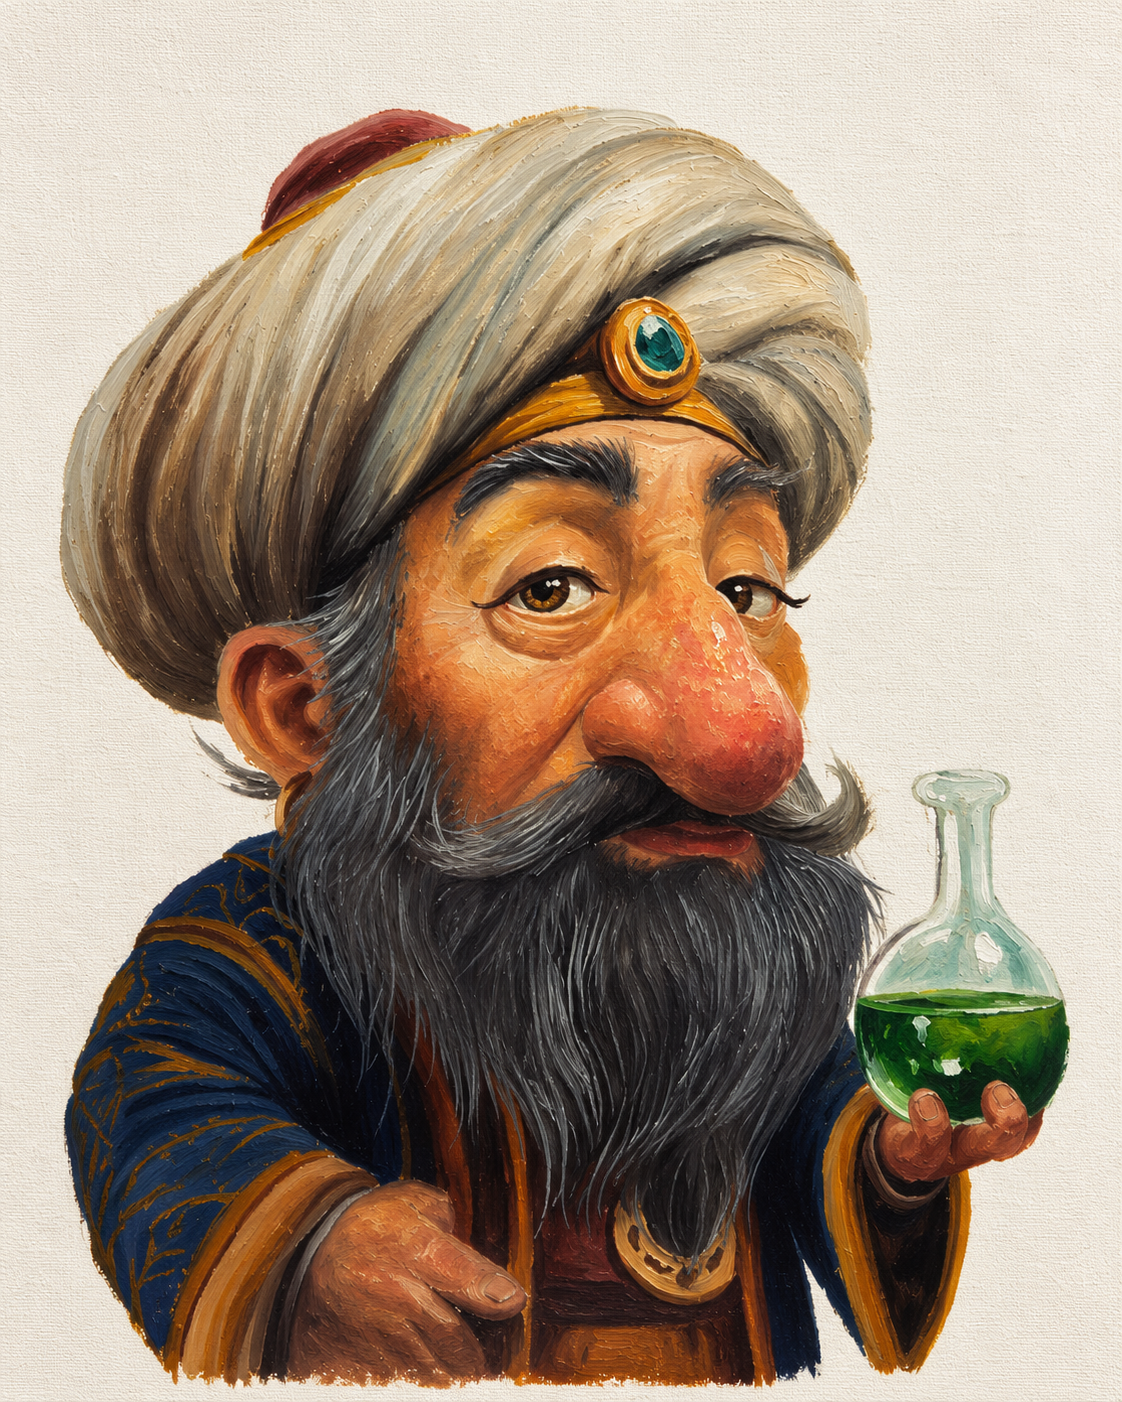
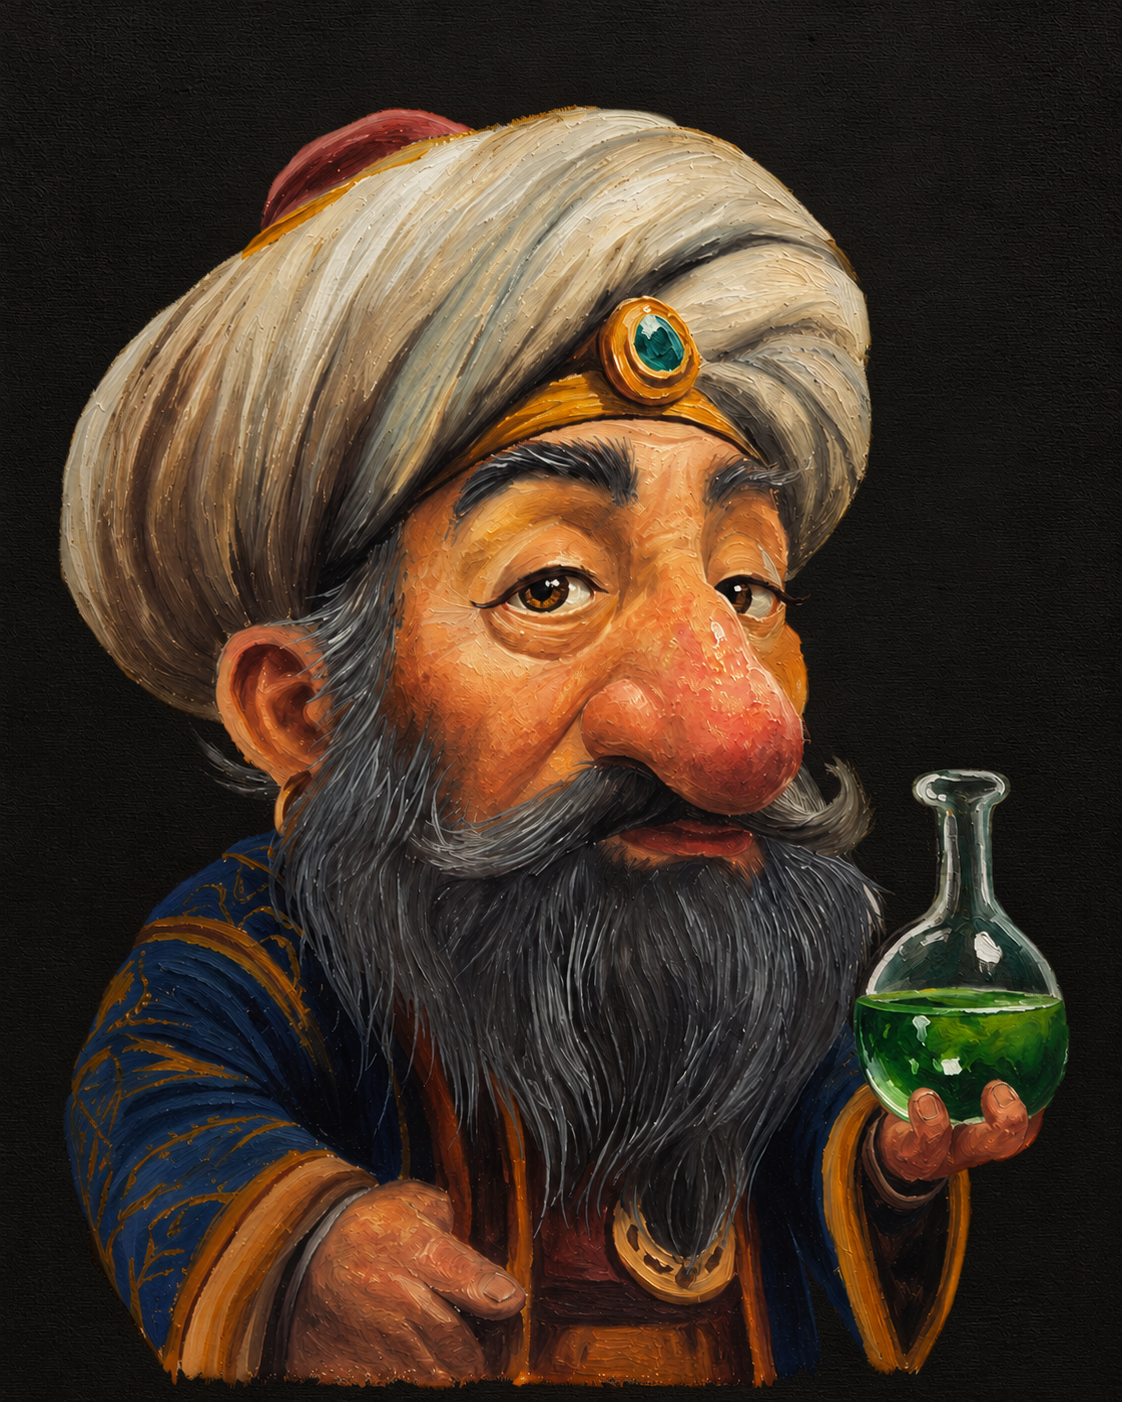
Correct artwork backgrounds and add transparent category art

diff --git a/scripts/prepare-image-assets.php b/scripts/prepare-image-assets.php
@@ -24,7 +24,20 @@ foreach (array_merge(glob($root.'sculptures/*.png'), glob($root.'compositions/*.
     imagepalettetotruecolor($source);
     imagealphablending($source, false);
     imagesavealpha($source, true);
-    imagewebp($source, substr($path, 0, -4).'.webp', 88);
+    if (str_starts_with(basename($path), 'category-')) {
+        // Small navigation illustrations need alpha and enough detail for 2x screens.
+        $width = min(320, imagesx($source));
+        $height = (int) round(imagesy($source) * $width / imagesx($source));
+        $target = imagecreatetruecolor($width, $height);
+        imagealphablending($target, false);
+        imagesavealpha($target, true);
+        imagefill($target, 0, 0, imagecolorallocatealpha($target, 0, 0, 0, 127));
+        imagecopyresampled($target, $source, 0, 0, 0, 0, $width, $height, imagesx($source), imagesy($source));
+        imagewebp($target, substr($path, 0, -4).'.webp', 88);
+        imagedestroy($target);
+    } else {
+        imagewebp($source, substr($path, 0, -4).'.webp', 88);
+    }
     imagedestroy($source);
 }
 $source = imagecreatefrompng($root.'design/canvas.png');
